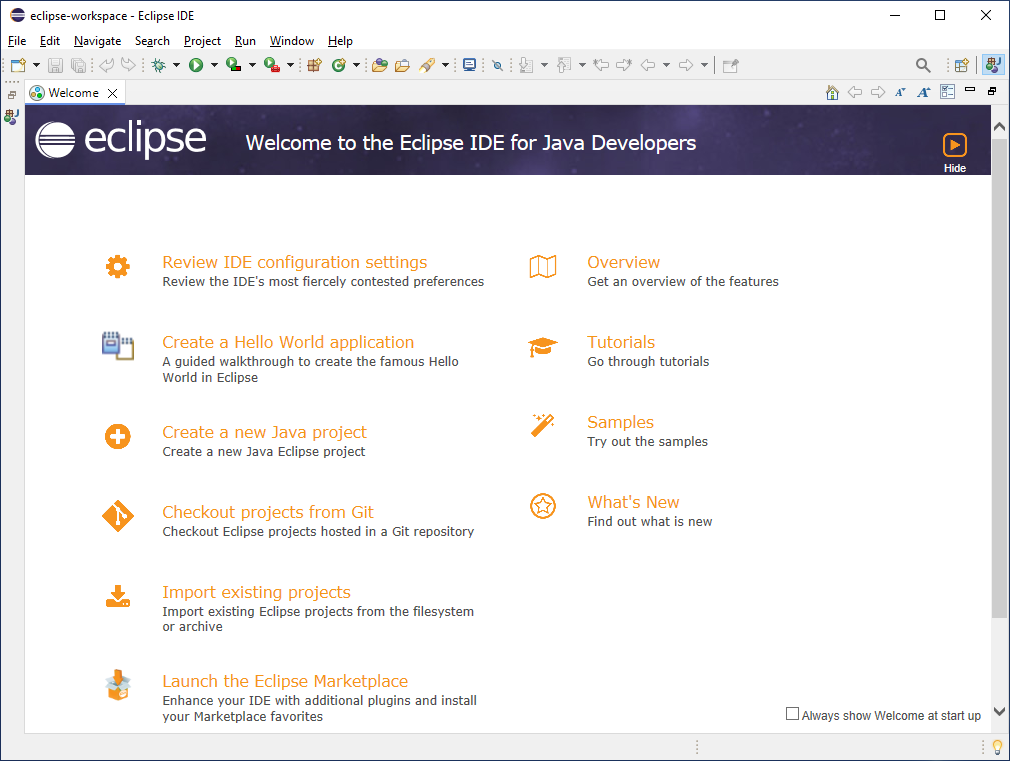
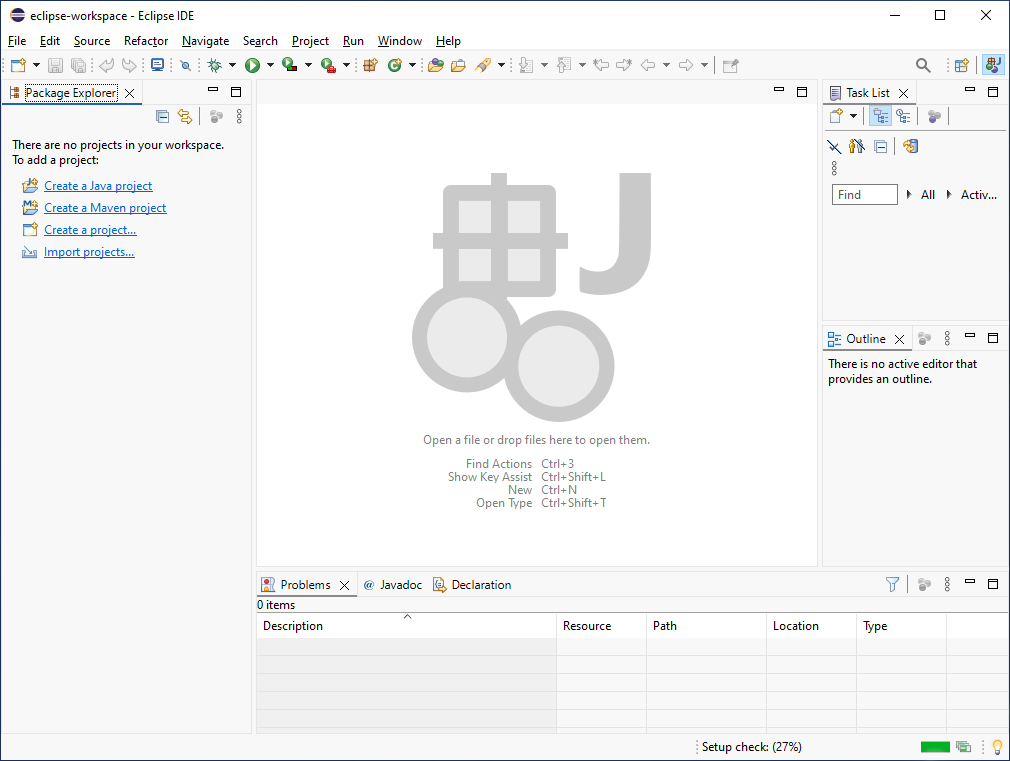
Adds initial WIP for Java setup
- Adds initial WIP for Java setup
- Fixes a few typos in the Python setup page

diff --git a/docs/java.html b/docs/java.html
@@ -12,7 +12,7 @@
     <link rel="icon" type="image/png" sizes="16x16" href="favicon-16x16.png" />
     <link rel="manifest" href="site.webmanifest" />
     
-    <title>Setting up Python for Local Development &mdash; GRCC Technology Learning Center</title>
+    <title>Setting up a Local Java Development Environment &mdash; GRCC Technology Learning Center</title>
     
     <link rel="stylesheet" href="https://fonts.googleapis.com/css?family=Open+Sans:300,400,600,700|Bree+Serif&display=swap" />
     <link href="https://cdn.jsdelivr.net/npm/bootstrap@5.3.3/dist/css/bootstrap.min.css" rel="stylesheet" integrity="sha384-QWTKZyjpPEjISv5WaRU9OFeRpok6YctnYmDr5pNlyT2bRjXh0JMhjY6hW+ALEwIH" crossorigin="anonymous">
@@ -77,45 +77,51 @@
 
         <div class="main-content">
             <main id="main" role="main">   
-                <h1 id="setting-up-python-for-local-development">Setting up Python for Local Development</h1>
+                <h1 id="setting-up-a-local-java-development-environment">Setting up a Local Java Development Environment</h1>
 
-<p>Multiple courses at GRCC require a working knowledge of Python, or (in the case of CIS-116) teach the concepts of programming 
-using the Python programming language. For the most part, you’ll probably be using <a href="https://www.zybooks.com/">zyBooks</a> as a 
+<p>Multiple courses at GRCC require a working knowledge of Java, or (in the case of CIS-117 and CIS-217) teach the concepts of programming 
+using the Java programming language. For the most part, you’ll probably be using <a href="https://www.zybooks.com/">zyBooks</a> as a 
 learning platform, and zyBooks provides a browser-based IDE within which you will complete your coursework.</p>
 
 <p>It <strong>can</strong> be useful at times, either for troubleshooting unexpected results from zyBooks or just to experiment outside of the 
-learning platform, to have the ability to write and execute Python code on your local computer. To that end, we’ll walk you through a few options 
-for installing Python and tools for creating Python projects.</p>
+learning platform, to have the ability to write and execute Java code on your local computer. To that end, we’ll walk you through a few options 
+for installing Java and tools for creating Java projects.</p>
 
-<h2 id="install-python-and-idle">Install Python and IDLE</h2>
+<h2 id="install-a-java-development-kit-jdk">Install a Java Development Kit (JDK)</h2>
 
 <div class="alert alert-primary">
-    <i class="fas fa-exclamation-circle"></i> Always install Python first. Install additional tools (like VS Code or PyCharm) afterwards.
+    <i class="fas fa-exclamation-circle"></i> Always install the JDK first. Install additional tools (like VS Code or IntelliJ) afterwards.
 </div>
 
-<p>You can install Python by visiting <a href="https://www.python.org/downloads/">https://www.python.org/downloads/</a>. The website <em>should</em> automatically detect 
-your operating system and offer the correct version to install:</p>
+<p>Java is a “compiled” language, in that it needs to be converted into something called “bytecode” in order to produce an executable program. To compile Java, 
+you will need a <em>Java Development Kit</em>, or <em>JDK</em>. At the moment, there are two major options for acquiring a JDK: <a href="https://www.oracle.com/java/technologies/downloads/">Oracle JDK</a> 
+and <a href="https://openjdk.org/">OpenJDK</a>.</p>
 
-<p><img src="./images/download-python.png" alt="Download Python" /></p>
+<h3 id="install-oracle-jdk">Install Oracle JDK</h3>
+
+<p>Most of the time, you’ll install the official JDK from Oracle. Visit the link above, and then scroll down until you see the section labeled 
+<strong>Java SE Development Kit XX.X.X downloads</strong> (where <em>XX.X.X</em> is the current JDK release version). Click the tab matching your operating system, and then 
+choose an installer. For this article, we’re downloading the x64 Installer for Windows:</p>
+
+<p><img src="./images/jdk-download.png" alt="Download Oracle JDK" /></p>
 
 <p>Once the download has completed, launch the installer:</p>
 
-<p><img src="./images/install-python.png" alt="Install Python" /></p>
+<p><img src="./images/install-jdk.png" alt="Install Oracle JDK" /></p>
 
-<p>The default options are safe to use, so we’d recommend choosing <em>Install Now</em>. Windows users will likely benefit from also checking the <em>Add python.exe to PATH</em> 
-option at the bottom of the dialog, but it’s not strictly required.</p>
+<p>The default options are safe to use, so continue clicking <em>Next</em> until the installer begins to install the JDK. Once the installer completes, you will 
+have access to tools for compiling Java code. The installer also installed a <em>Java Runtime Environment</em>, or <em>JRE</em>, which is required for executing your 
+compiled Java code, so (technically) you don’t need anything else.</p>
 
-<p>Once the installer completes, you will be able to execute Python files locally. You’ll also have access to the native Python code editor, called <em>IDLE</em>:</p>
+<p>We’d recommend also installing one or more of the IDEs listed below, as they provide a range of additional tools to make developing in Java much easier.</p>
 
-<p><img src="./images/idle.png" alt="IDLE" /></p>
-
-<p>For a simple example program you can run, to verify that Python is installed correctly, see <a href="#">Python Examples - ‘Hello World’</a>.</p>
+<p>For a simple example program you can run, to verify that the JDK is installed correctly, see <a href="#">Java Examples - ‘Hello World’</a>.</p>
 
 <h2 id="install-or-extend-visual-studio-code">Install (or Extend) Visual Studio Code</h2>
 
 <p><strong>Visual Studio Code</strong> (also known as <em>VS Code</em>) is a multi-platform code editor and development environment. It comes with native support for multiple programming 
 languages, and has an extensive ecosystem of free or paid extensions to add support for additional languages or frameworks. To that end, it makes a great tool for 
-learning Python.</p>
+learning Java.</p>
 
 <p>If you do not have VS Code installed, you can visit <a href="https://code.visualstudio.com/">https://code.visualstudio.com/</a> to download the appropriate version for your 
 operating system:</p>
@@ -129,36 +135,63 @@ operating system:</p>
 <p>The default options are safe to use, so click <em>Next</em> until the installer begins to install VS Code. <em>This will take a few minutes</em>, so please be patient. Once the 
 installer has completed, click <em>Finish</em>.</p>
 
-<p>Next, download the Python extension by visiting <a href="https://marketplace.visualstudio.com/items?itemName=ms-python.python">https://marketplace.visualstudio.com/items?itemName=ms-python.python</a>:</p>
+<p>Next, download the Java extension by visiting <a href="https://marketplace.visualstudio.com/items?itemName=Oracle.oracle-java">https://marketplace.visualstudio.com/items?itemName=Oracle.oracle-java</a>:</p>
 
-<p><img src="./images/download-python-vs-code.png" alt="Download Python Extension for Visual Studio Code" /></p>
+<p><img src="./images/download-java-vs-code.png" alt="Download Java Extension for Visual Studio Code" /></p>
 
 <p>Once the download has completed, launch the installer:</p>
 
-<p><img src="./images/install-python-vs-code.png" alt="Install Python Extension for Visual Studio Code" /></p>
+<p><img src="./images/install-java-vs-code.png" alt="Install Java Extension for Visual Studio Code" /></p>
 
 <p>This will open the extension in VS Code - click the <em>Install</em> button to install the extension into VS Code. You may be prompted to restart VS Code, after which the 
-extension will be active.</p>
+extension will be active. There’s a few steps left before you can actively debug Java in VS Code - follow the <strong>Getting Started</strong> guide on the extension’s page to finish 
+your setup.</p>
 
-<h2 id="install-pycharm">Install Pycharm</h2>
+<h2 id="install-intellij">Install IntelliJ</h2>
 
-<p>Another great option for developing in Python is <strong>PyCharm</strong>, an <em>integrated development environment</em>, or <em>IDE</em>, from JetBrains. PyCharm is an IDE focused on Python and Python-based frameworks, and is probably the best choice for complex projects.</p>
+<p>Another great option for developing in Java is <strong>IntelliJ</strong>, an <em>integrated development environment</em>, or <em>IDE</em>, from JetBrains. IntelliJ is an IDE focused on Java and Java-based frameworks, and is probably the best choice for complex projects.</p>
 
-<p>PyCharm has both a Pro (paid) version, and a Community (free) edition. Previously, these were separate downloads, but as of 2025, you can simply download one installer 
-by visiting <a href="https://www.jetbrains.com/pycharm/download">https://www.jetbrains.com/pycharm/download</a>:</p>
+<p>IntelliJ has both a Pro (paid) version, and a Community (free) edition. We’d recommend the Community Edition. Visit <a href="https://www.jetbrains.com/idea/download">https://www.jetbrains.com/idea/download</a> and then scroll down until you see <strong>IntelliJ IDEA Community Edition</strong>:</p>
 
-<p><img src="./images/download-pycharm-ide.png" alt="Download PyCharm" /></p>
+<p><img src="./images/download-intellij-ce.png" alt="Download IntelliJ" /></p>
 
 <p>Once the download has completed, launch the installer:</p>
 
-<p><img src="./images/install-pycharm-ide.png" alt="Install PyCharm" /></p>
+<p><img src="./images/install-intellij-ce.png" alt="Install IntelliJ" /></p>
 
-<p>The default options are safe to use, so click <em>Next</em> until the installer begins to install PyCharm. <em>This will take a few minutes</em>, so please be patient. Once the 
-installer has completed, click <em>Finish</em>.</p>
+<p>The default options are safe to use, so click <em>Next</em> until the installer begins to install IntelliJ. <em>This will take a few minutes</em>, so please be patient. Once the 
+installer has completed, click <em>Finish</em> (choose <em>Reboot now</em> if you want to immediately restart your computer).</p>
+
+<h2 id="install-eclipse-ide">Install Eclipse IDE</h2>
+
+<p>Eclipse is probably one of the oldest continually-maintained IDEs available for Java development, but don’t hold that against it - it’s a fully modern IDE and is an 
+excellent choice as both a learning tool and something you can (and probably will) continue to use as a professional Java developer.</p>
+
+<p>Visit <a href="https://www.eclipse.org/downloads/packages/">https://www.eclipse.org/downloads/packages/</a> to download Eclipse:</p>
+
+<p><img src="./images/download-eclipse.png" alt="Download IntelliJ" /></p>
+
+<p>Once the download has completed, launch the installer:</p>
+
+<p><img src="./images/install-eclipse.png" alt="Install IntelliJ" /></p>
+
+<p>From the list, select <em>Eclipse IDE for Java Developers</em>. The default options are safe to use, so click <em>Install</em>. <em>This will take a few minutes</em>, so please be patient. Once the 
+installer has completed, click <em>Launch</em>.</p>
+
+<p>When starting up, Eclipse will prompt for a workspace:</p>
+
+<p><img src="./images/eclipse-workspace-prompt.png" alt="Choose workspace" /></p>
+
+<p>A workspace is basically a virtual desk for Java development - whatever settings you configure in Eclipse are saved to this workspace and applied each time the 
+workspace is selected. This lets you configure multiple workspaces, according to the needs of the tasks on which you are working.</p>
+
+<p>Once a workspace is selected, you’ll be in the Eclipse version of a start page:</p>
+
+<p><img src="./images/eclipse-ide.png" alt="Eclipse IDE start page" /></p>
 
 <h2 id="the-wrap-up">The Wrap Up</h2>
 
-<p>That’s it! You now have up to three new tools with which to experiment. Have fun!</p>
+<p>That’s it! You now have up to four new tools with which to experiment. Have fun!</p>
      
             </main>
          

diff --git a/docs-src/_includes/sidebar.html b/docs-src/_includes/sidebar.html
@@ -11,6 +11,7 @@
             Setting Up a Local Environment
         </h6>
         <ul class="sidebar-nav-list">
+            <li class="nav-item"><a class="nav-link" href="./java">Java</a></li>
             <li class="nav-item"><a class="nav-link" href="./python">Python</a></li>
         </ul>
 

diff --git a/docs/404.html b/docs/404.html
@@ -62,6 +62,7 @@
             Setting Up a Local Environment
         </h6>
         <ul class="sidebar-nav-list">
+            <li class="nav-item"><a class="nav-link" href="./java">Java</a></li>
             <li class="nav-item"><a class="nav-link" href="./python">Python</a></li>
         </ul>
 

diff --git a/docs/index.html b/docs/index.html
@@ -62,6 +62,7 @@
             Setting Up a Local Environment
         </h6>
         <ul class="sidebar-nav-list">
+            <li class="nav-item"><a class="nav-link" href="./java">Java</a></li>
             <li class="nav-item"><a class="nav-link" href="./python">Python</a></li>
         </ul>
 

diff --git a/docs-src/pages/java.md b/docs-src/pages/java.md
@@ -1,0 +1,123 @@
+---
+layout: default
+title: Setting up a Local Java Development Environment
+pageKey: java
+permalink: /java
+searchable: true
+---
+
+# Setting up a Local Java Development Environment
+
+Multiple courses at GRCC require a working knowledge of Java, or (in the case of CIS-117 and CIS-217) teach the concepts of programming 
+using the Java programming language. For the most part, you'll probably be using [zyBooks](https://www.zybooks.com/) as a 
+learning platform, and zyBooks provides a browser-based IDE within which you will complete your coursework.
+
+It **can** be useful at times, either for troubleshooting unexpected results from zyBooks or just to experiment outside of the 
+learning platform, to have the ability to write and execute Java code on your local computer. To that end, we'll walk you through a few options 
+for installing Java and tools for creating Java projects.
+
+## Install a Java Development Kit (JDK)
+
+<div class="alert alert-primary">
+    <i class="fas fa-exclamation-circle"></i> Always install the JDK first. Install additional tools (like VS Code or IntelliJ) afterwards.
+</div>
+
+Java is a "compiled" language, in that it needs to be converted into something called "bytecode" in order to produce an executable program. To compile Java, 
+you will need a _Java Development Kit_, or _JDK_. At the moment, there are two major options for acquiring a JDK: [Oracle JDK](https://www.oracle.com/java/technologies/downloads/) 
+and [OpenJDK](https://openjdk.org/).
+
+### Install Oracle JDK
+
+Most of the time, you'll install the official JDK from Oracle. Visit the link above, and then scroll down until you see the section labeled 
+**Java SE Development Kit XX.X.X downloads** (where _XX.X.X_ is the current JDK release version). Click the tab matching your operating system, and then 
+choose an installer. For this article, we're downloading the x64 Installer for Windows:
+
+![Download Oracle JDK](./images/jdk-download.png)
+
+Once the download has completed, launch the installer:
+
+![Install Oracle JDK](./images/install-jdk.png)
+
+The default options are safe to use, so continue clicking _Next_ until the installer begins to install the JDK. Once the installer completes, you will 
+have access to tools for compiling Java code. The installer also installed a _Java Runtime Environment_, or _JRE_, which is required for executing your 
+compiled Java code, so (technically) you don't need anything else.
+
+We'd recommend also installing one or more of the IDEs listed below, as they provide a range of additional tools to make developing in Java much easier.
+
+For a simple example program you can run, to verify that the JDK is installed correctly, see [Java Examples - 'Hello World'](#).
+
+## Install (or Extend) Visual Studio Code
+
+**Visual Studio Code** (also known as _VS Code_) is a multi-platform code editor and development environment. It comes with native support for multiple programming 
+languages, and has an extensive ecosystem of free or paid extensions to add support for additional languages or frameworks. To that end, it makes a great tool for 
+learning Java.
+
+If you do not have VS Code installed, you can visit [https://code.visualstudio.com/](https://code.visualstudio.com/) to download the appropriate version for your 
+operating system:
+
+![Download Visual Studio Code](./images/download-vs-code.png)
+
+Once the download has completed, launch the installer. Accept the Terms of Service, and then click _Next_ to bring up the installation options:
+
+![Install Visual Studio Code](./images/install-vs-code.png)
+
+The default options are safe to use, so click _Next_ until the installer begins to install VS Code. _This will take a few minutes_, so please be patient. Once the 
+installer has completed, click _Finish_.
+
+Next, download the Java extension by visiting [https://marketplace.visualstudio.com/items?itemName=Oracle.oracle-java](https://marketplace.visualstudio.com/items?itemName=Oracle.oracle-java):
+
+![Download Java Extension for Visual Studio Code](./images/download-java-vs-code.png)
+
+Once the download has completed, launch the installer:
+
+![Install Java Extension for Visual Studio Code](./images/install-java-vs-code.png)
+
+This will open the extension in VS Code - click the _Install_ button to install the extension into VS Code. You may be prompted to restart VS Code, after which the 
+extension will be active. There's a few steps left before you can actively debug Java in VS Code - follow the **Getting Started** guide on the extension's page to finish 
+your setup.
+
+## Install IntelliJ
+
+Another great option for developing in Java is **IntelliJ**, an _integrated development environment_, or _IDE_, from JetBrains. IntelliJ is an IDE focused on Java and Java-based frameworks, and is probably the best choice for complex projects.
+
+IntelliJ has both a Pro (paid) version, and a Community (free) edition. We'd recommend the Community Edition. Visit [https://www.jetbrains.com/idea/download](https://www.jetbrains.com/idea/download) and then scroll down until you see **IntelliJ IDEA Community Edition**:
+
+![Download IntelliJ](./images/download-intellij-ce.png)
+
+Once the download has completed, launch the installer:
+
+![Install IntelliJ](./images/install-intellij-ce.png)
+
+The default options are safe to use, so click _Next_ until the installer begins to install IntelliJ. _This will take a few minutes_, so please be patient. Once the 
+installer has completed, click _Finish_ (choose _Reboot now_ if you want to immediately restart your computer).
+
+## Install Eclipse IDE
+
+Eclipse is probably one of the oldest continually-maintained IDEs available for Java development, but don't hold that against it - it's a fully modern IDE and is an 
+excellent choice as both a learning tool and something you can (and probably will) continue to use as a professional Java developer.
+
+Visit [https://www.eclipse.org/downloads/packages/](https://www.eclipse.org/downloads/packages/) to download Eclipse:
+
+![Download IntelliJ](./images/download-eclipse.png)
+
+Once the download has completed, launch the installer:
+
+![Install IntelliJ](./images/install-eclipse.png)
+
+From the list, select _Eclipse IDE for Java Developers_. The default options are safe to use, so click _Install_. _This will take a few minutes_, so please be patient. Once the 
+installer has completed, click _Launch_.
+
+When starting up, Eclipse will prompt for a workspace:
+
+![Choose workspace](./images/eclipse-workspace-prompt.png)
+
+A workspace is basically a virtual desk for Java development - whatever settings you configure in Eclipse are saved to this workspace and applied each time the 
+workspace is selected. This lets you configure multiple workspaces, according to the needs of the tasks on which you are working.
+
+Once a workspace is selected, you'll be in the Eclipse version of a start page:
+
+![Eclipse IDE start page](./images/eclipse-ide.png)
+
+## The Wrap Up
+
+That's it! You now have up to four new tools with which to experiment. Have fun!

diff --git a/docs-src/pages/python.md b/docs-src/pages/python.md
@@ -73,7 +73,8 @@ extension will be active.
 
 Another great option for developing in Python is **PyCharm**, an _integrated development environment_, or _IDE_, from JetBrains. PyCharm is an IDE focused on Python and Python-based frameworks, and is probably the best choice for complex projects.
 
-PyCharm has both a Pro (paid) version, and a Community (free) edition. Previously, these were separate downloads, but as of 2025, you can simply download one installer:
+PyCharm has both a Pro (paid) version, and a Community (free) edition. Previously, these were separate downloads, but as of 2025, you can simply download one installer 
+by visiting [https://www.jetbrains.com/pycharm/download](https://www.jetbrains.com/pycharm/download):
 
 ![Download PyCharm](./images/download-pycharm-ide.png)
 
